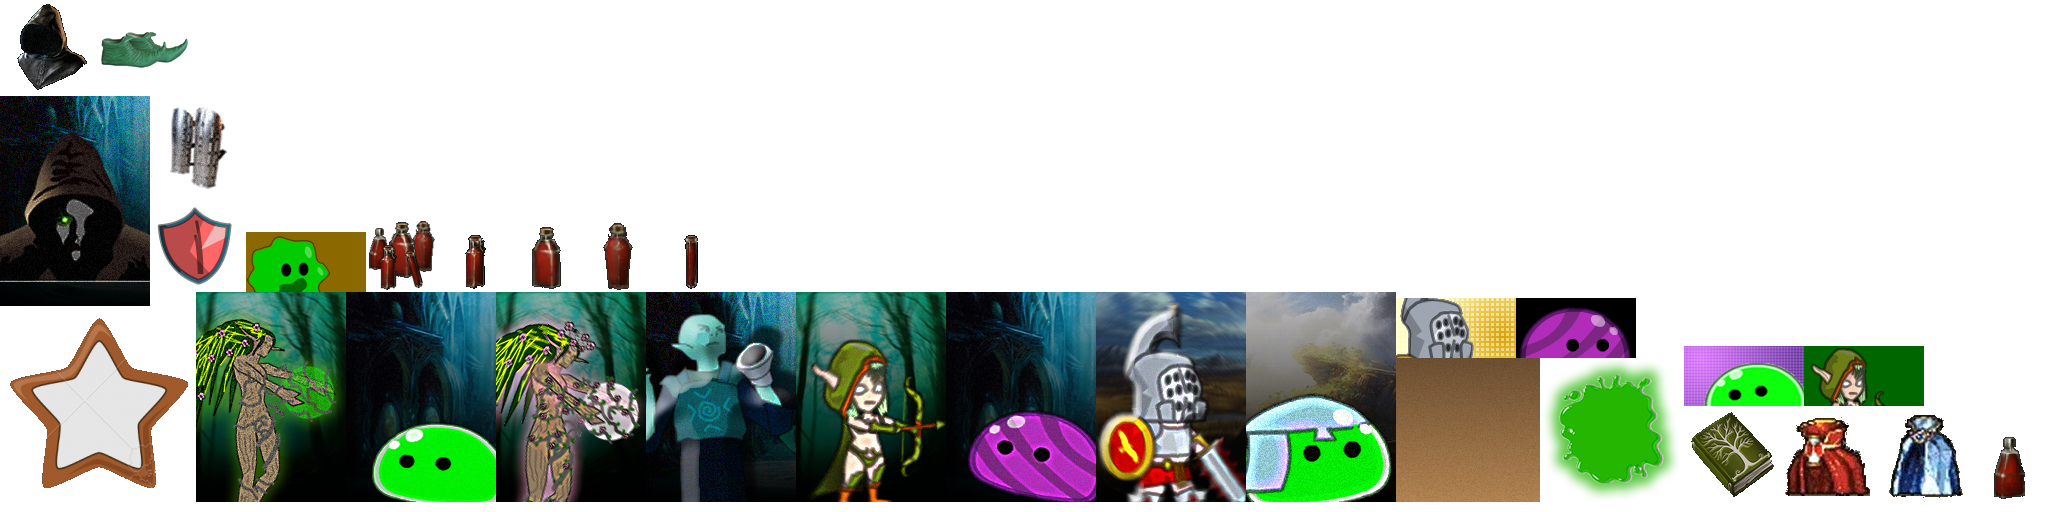
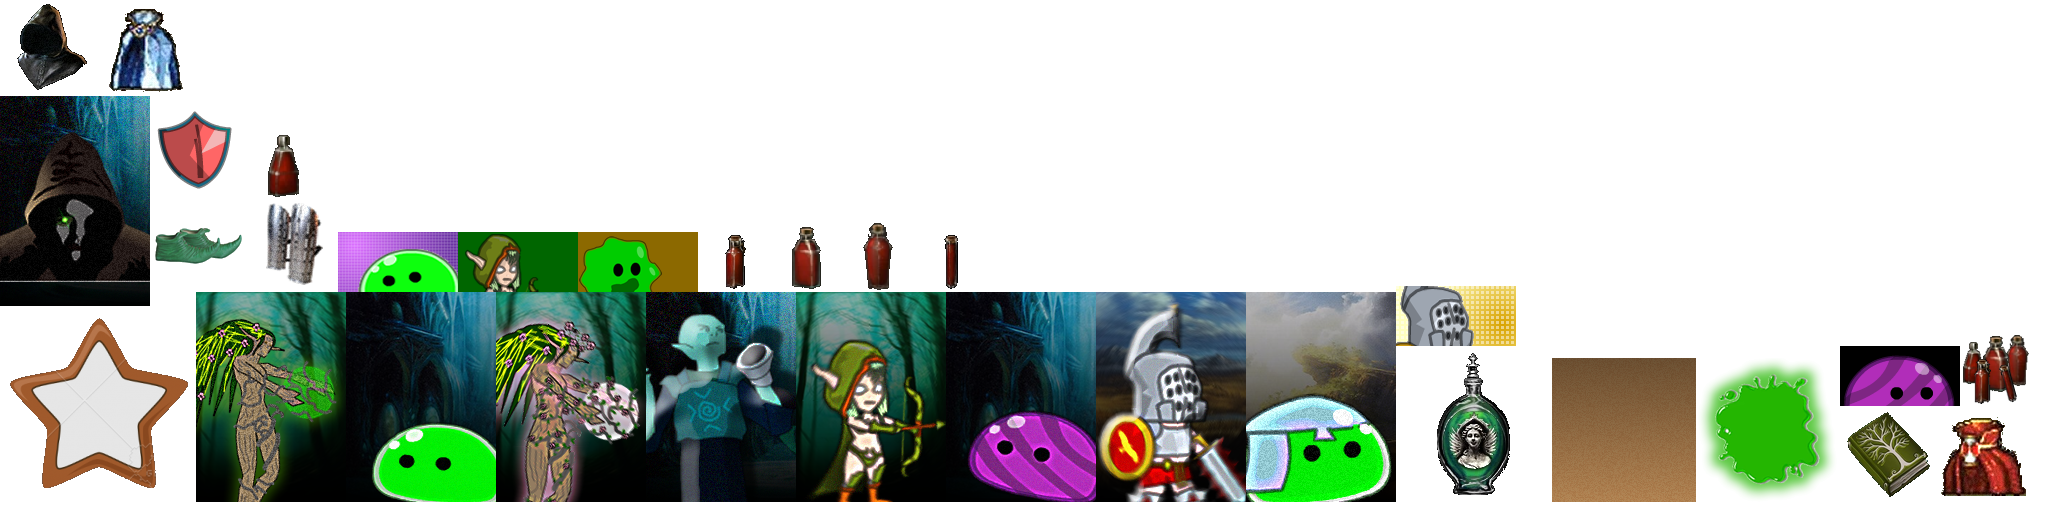
add anti-stun flask

Changed region(s): [[0.6562, 0.5312, 1.0, 1.0], [0.0625, 0.2188, 0.4688, 0.5938], [0.0312, 0.0, 0.0938, 0.1875]]

diff --git a/android/battle/src/main/java/com/game7th/battle/SwipeBattle.kt b/android/battle/src/main/java/com/game7th/battle/SwipeBattle.kt
@@ -365,6 +365,16 @@ class SwipeBattle(
                 processHeal(unit, battleFlaskDto.flatHeal)
                 notifyEvent(BattleEvent.ShowAilmentEffect(unit.id, "ailment_heal"))
             }
+            if (battleFlaskDto.removeStun > 0) {
+                tileField.tiles.entries.toList().forEach { (position, tile) ->
+                    if (tile.stun) {
+                        val tileUpdated = tile.copy(stun = false)
+                        tileField.tiles[position] = tileUpdated
+                        notifyEvent(BattleEvent.UpdateTileEvent(tile.id, tileUpdated.toViewModel()))
+                    }
+                }
+                notifyEvent(BattleEvent.ShowAilmentEffect(unit.id, "ailment_heal"))
+            }
         }
     }
 

diff --git a/android/metagame/src/main/java/com/game7th/metagame/inventory/GearServiceImpl.kt b/android/metagame/src/main/java/com/game7th/metagame/inventory/GearServiceImpl.kt
@@ -22,7 +22,7 @@ class GearServiceImpl(
         inventory = if (inventoryString == null) {
             val initialData = InventoryPool(
                     items = mutableListOf(),
-                    flasks = mutableListOf(FlaskStackDto(FlaskTemplate("LIFE_FLASK_SMALL", 100), 5), FlaskStackDto(FlaskTemplate("LIFE_FLASK_MEDIUM", 200), 5))
+                    flasks = mutableListOf(FlaskStackDto(FlaskTemplate("LIFE_FLASK_SMALL", 100, 0), 5), FlaskStackDto(FlaskTemplate("LIFE_FLASK_MEDIUM", 200,0), 5))
             )
             initialData
         } else {

diff --git a/android/core/src/com/game7th/swipe/campaign/inventory/ItemDetailPanel.kt b/android/core/src/com/game7th/swipe/campaign/inventory/ItemDetailPanel.kt
@@ -138,6 +138,9 @@ class ItemDetailPanel(
                 if (item.potion.template.fbFlatHeal > 0) {
                     texts.add(context.texts["flask_affix_flat_heal"]?.replace("$", item.potion.template.fbFlatHeal.toString()))
                 }
+                if (item.potion.template.fbRemoveStun > 0) {
+                    texts.add(context.texts["flask_affix_remove_stun"].toString())
+                }
             }
         }
 

diff --git a/android/core/src/com/game7th/swipe/game/GameScreen.kt b/android/core/src/com/game7th/swipe/game/GameScreen.kt
@@ -197,7 +197,7 @@ class GameScreen(private val game: SwipeGameGdx,
         KtxAsync.launch {
             game.gearService.removeFlask(flask.template)
             gameActor.refreshAlchemy()
-            battle.useFlask(BattleFlaskDto(flask.template.fbFlatHeal))
+            battle.useFlask(BattleFlaskDto(flask.template.fbFlatHeal, flask.template.fbRemoveStun))
             gameActor.hideAlchemy()
         }
     }

diff --git a/android/metagame/src/main/java/com/game7th/metagame/inventory/dto/models.kt b/android/metagame/src/main/java/com/game7th/metagame/inventory/dto/models.kt
@@ -48,7 +48,8 @@ data class InventoryPool(
 
 data class FlaskTemplate(
         val name: String,
-        val fbFlatHeal: Int
+        val fbFlatHeal: Int,
+        val fbRemoveStun: Int
 )
 
 data class FlaskStackDto(

diff --git a/android/battle/src/main/java/com/game7th/battle/dto/BattleFlaskDto.kt b/android/battle/src/main/java/com/game7th/battle/dto/BattleFlaskDto.kt
@@ -1,5 +1,6 @@
 package com.game7th.battle.dto
 
 data class BattleFlaskDto(
-        val flatHeal: Int
+        val flatHeal: Int,
+        val removeStun: Int
 )
